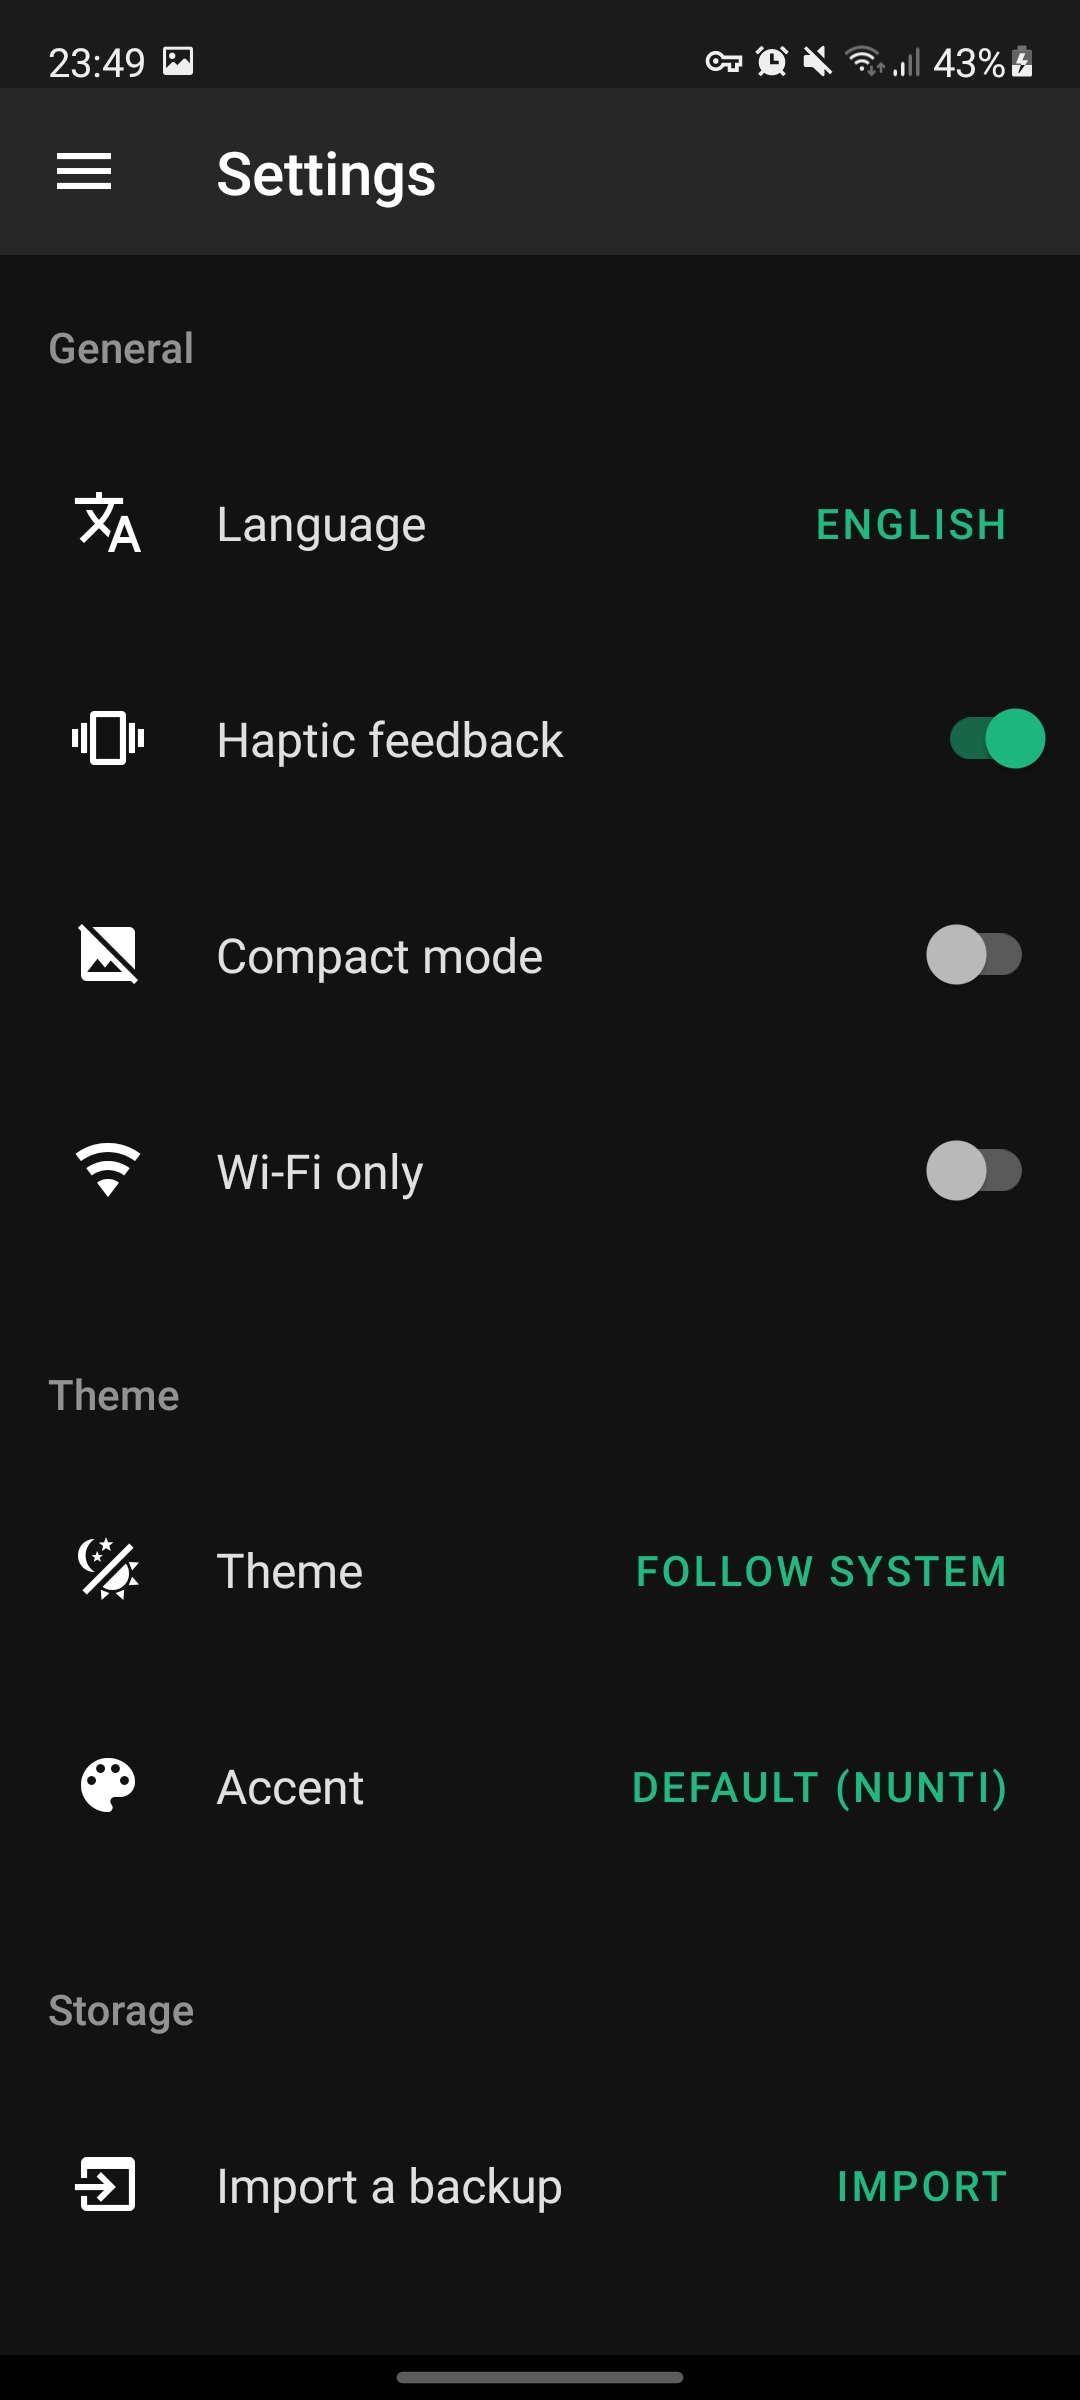
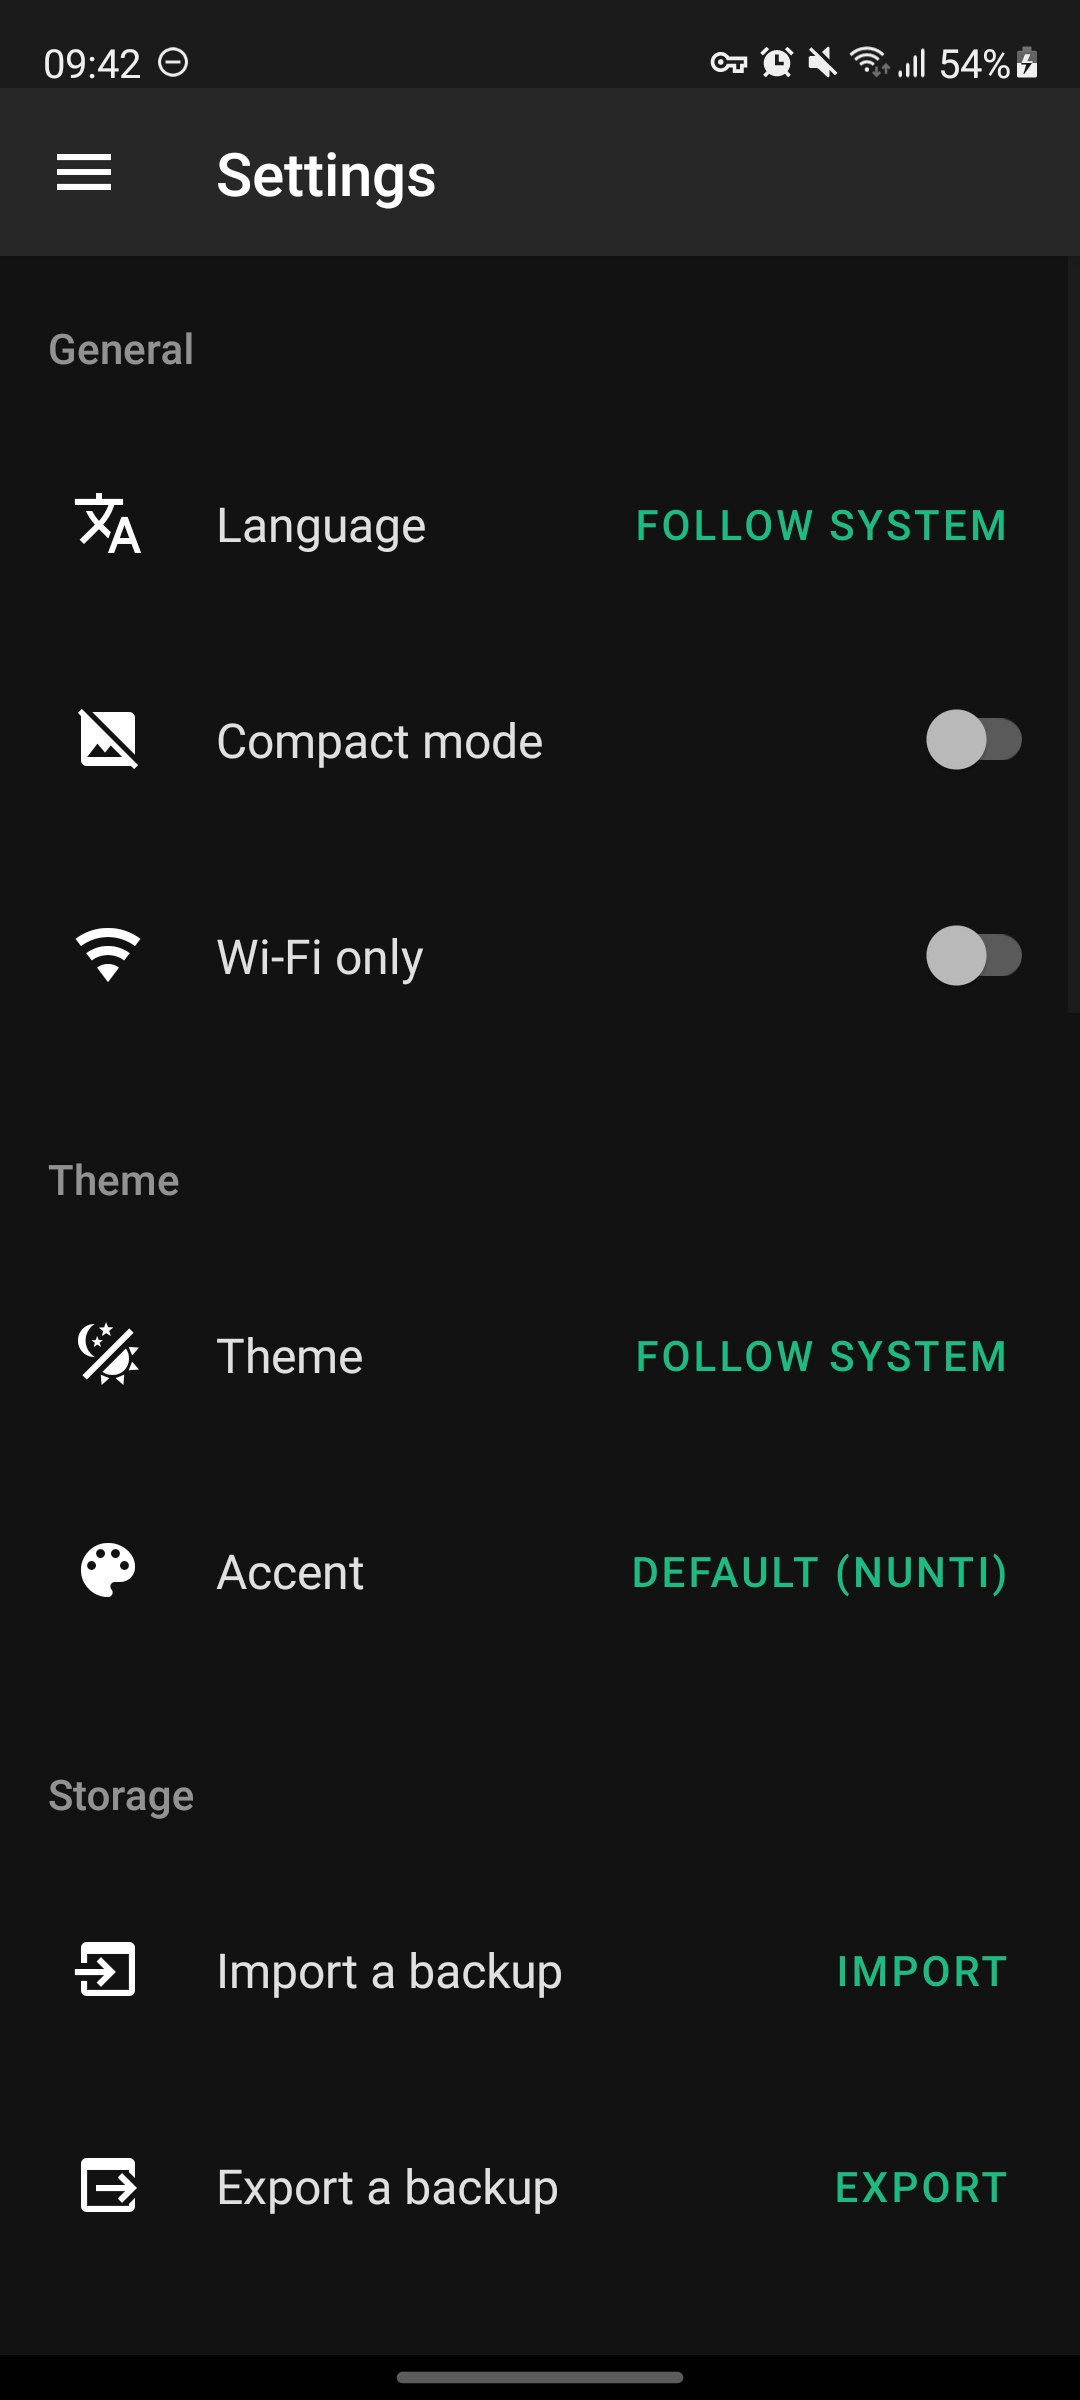
update fastline, remove browser theming (it was ugly)

diff --git a/Nunti/src/Screens/Settings.tsx b/Nunti/src/Screens/Settings.tsx
@@ -27,7 +27,6 @@ class Settings extends Component { // not using purecomponent as it doesn't rere
         this.changeLanguage = this.changeLanguage.bind(this);
         this.toggleNoImages = this.toggleNoImages.bind(this);
         this.toggleWifiOnly = this.toggleWifiOnly.bind(this);
-        this.toggleThemeBrowser = this.toggleThemeBrowser.bind(this);
 
         this.removeRss = this.removeRss.bind(this);
         this.addRss = this.addRss.bind(this);
@@ -48,7 +47,6 @@ class Settings extends Component { // not using purecomponent as it doesn't rere
             language: this.props.prefs.Language,
             noImagesSwitch: this.props.prefs.DisableImages,
             wifiOnlySwitch: this.props.prefs.WifiOnly,
-            themeBrowserSwitch: this.props.prefs.ThemeBrowser,
 
             theme: this.props.prefs.Theme,
             accent: this.props.prefs.Accent,
@@ -110,12 +108,6 @@ class Settings extends Component { // not using purecomponent as it doesn't rere
         await this.props.saveUserSettings(this.props.prefs);
     }
     
-    private async toggleThemeBrowser() {
-        this.props.prefs.ThemeBrowser = !this.state.themeBrowserSwitch;
-        this.setState({ themeBrowserSwitch: !this.state.themeBrowserSwitch});
-        await this.props.saveUserSettings(this.props.prefs);
-    }
-
     private async changeTheme(newTheme: string) {
         this.props.prefs.Theme = newTheme;
         this.setState({ theme: newTheme });
@@ -294,7 +286,6 @@ class Settings extends Component { // not using purecomponent as it doesn't rere
             language: this.props.prefs.Language,
             noImagesSwitch: this.props.prefs.DisableImages,
             wifiOnly: this.props.prefs.WifiOnly,
-            themeBrowserSwitch: this.props.prefs.ThemeBrowser,
             theme: this.props.prefs.Theme,
             accent: this.props.prefs.Accent,
             feeds: this.props.prefs.FeedList,
@@ -336,9 +327,6 @@ class Settings extends Component { // not using purecomponent as it doesn't rere
                         left={() => <List.Icon icon="palette" />}
                         right={() => <Button style={Styles.settingsButton} 
                             onPress={() => { this.setState({ accentDialogVisible: true })}}>{this.props.lang[this.state.accent]}</Button>} />
-                    <List.Item title={this.props.lang.theme_browser}
-                        left={() => <List.Icon icon="web" />}
-                        right={() => <Switch value={this.state.themeBrowserSwitch} onValueChange={this.toggleThemeBrowser} />} />
                 </List.Section>
 
                 <List.Section>

diff --git a/Nunti/src/Locale.ts b/Nunti/src/Locale.ts
@@ -42,7 +42,6 @@ export const English = {
     wifi_only: "Wi-Fi only",
     theme: "Theme",
     accent: "Accent",
-    theme_browser: "Theme browser",
     storage: "Storage",
     import: "Import a backup",
     import_button: "Import",
@@ -168,7 +167,6 @@ export const Czech = {
     wifi_only: "Pouze Wi-Fi",
     theme: "Režim",
     accent: "Barva",
-    theme_browser: "Zbarvit prohlížeč",
     storage: "Úložiště",
     import: "Importovat zálohu",
     import_button: "Import",

diff --git a/Nunti/src/Backend.ts b/Nunti/src/Backend.ts
@@ -51,7 +51,6 @@ class UserSettings {
 
     public DisableImages = false;
     public WifiOnly = false;
-    public ThemeBrowser = true;
     public Language: string = "system";
 
     public Theme: string = "system";

diff --git a/README.md b/README.md
@@ -34,9 +34,10 @@ Nunti implements all the best practices of material design to finally create an 
 
 Nunti allows you to customise the look of the app to make it unique to you. "Material You" is also planned once one of the developers gets android 12.
 
-<img src="https://gitlab.com/ondrejfoltyn/nunti/-/raw/master/fastlane/metadata/android/en-US/images/phoneScreenshots/7.jpg" alt="Nunti theme" width="20%" height="20%">
-<img src="https://gitlab.com/ondrejfoltyn/nunti/-/raw/master/fastlane/metadata/android/en-US/images/phoneScreenshots/8.jpg" alt="Nunti accent" width="20%" height="20%">
+<img src="https://gitlab.com/ondrejfoltyn/nunti/-/raw/master/fastlane/metadata/android/en-US/images/phoneScreenshots/8.jpg" alt="Nunti theme" width="20%" height="20%">
+<img src="https://gitlab.com/ondrejfoltyn/nunti/-/raw/master/fastlane/metadata/android/en-US/images/phoneScreenshots/9.jpg" alt="Nunti accent" width="20%" height="20%">
 <img src="https://gitlab.com/ondrejfoltyn/nunti/-/raw/master/fastlane/metadata/android/en-US/images/phoneScreenshots/10.jpg" alt="Nunti changed" width="20%" height="20%">
+<img src="https://gitlab.com/ondrejfoltyn/nunti/-/raw/master/fastlane/metadata/android/en-US/images/phoneScreenshots/11.jpg" alt="Nunti changed 2" width="20%" height="20%">
 
 ### Import and export functions
 
